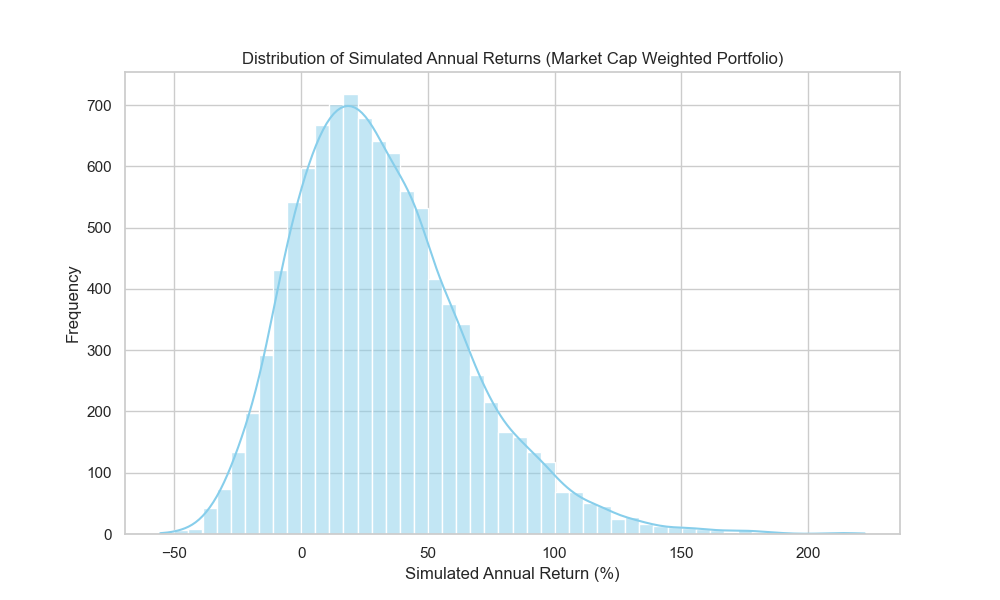
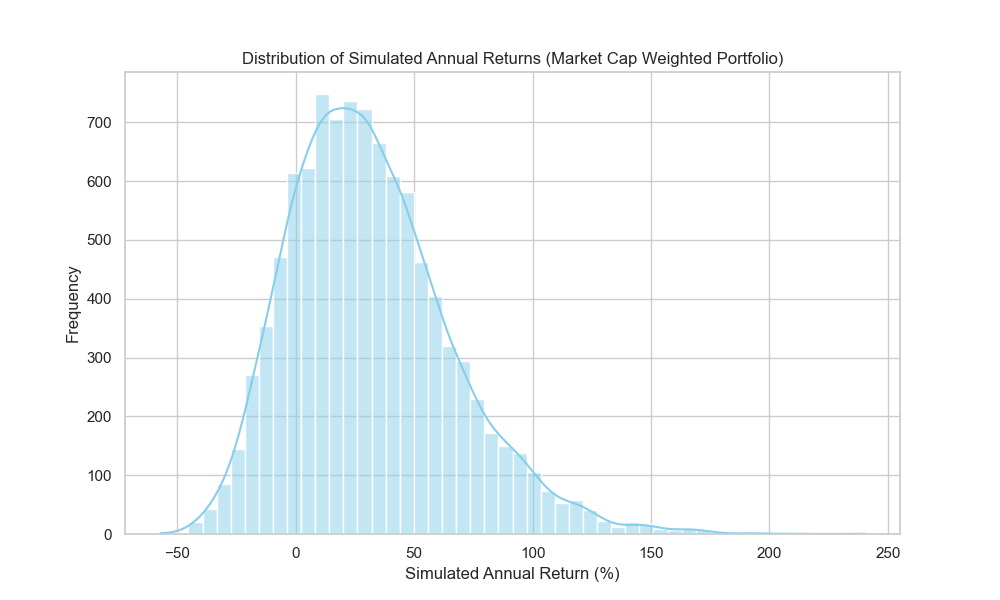
Original and Machine learning implementation #1

diff --git a/main_ML.py b/main_ML.py
@@ -7,9 +7,14 @@ from datetime import datetime
 import seaborn as sns
 import warnings
 
+# **New Imports for Machine Learning**
+from sklearn.ensemble import RandomForestRegressor
+from sklearn.model_selection import train_test_split
+
 # Suppress warnings
 warnings.filterwarnings("ignore", category=RuntimeWarning)
-warnings.filterwarnings("ignore", category=FutureWarning, message="The 'unit' keyword in TimedeltaIndex construction is deprecated")
+warnings.filterwarnings("ignore", category=FutureWarning,
+                        message="The 'unit' keyword in TimedeltaIndex construction is deprecated")
 warnings.filterwarnings("ignore", category=DeprecationWarning, message="Pyarrow will become a required dependency")
 
 # Set the style for seaborn
@@ -67,24 +72,93 @@ if returns.isnull().values.any():
     print("Data contains NaNs. Dropping NaNs.")
     returns = returns.dropna()
 
-# Step 2: Calculate mean returns and covariance matrix
-mean_returns = returns.mean()
+# Step 2: Calculate covariance matrix
 cov_matrix = returns.cov()
 num_assets = len(tickers)
 risk_free_rate = 0.05  # 5% annual risk-free rate
 
-# Function to calculate portfolio performance
-def portfolio_performance(weights, mean_returns, cov_matrix):
-    returns = np.dot(weights, mean_returns) * 252
-    volatility = np.sqrt(np.dot(weights.T, np.dot(cov_matrix * 252, weights)))
-    return returns, volatility
+# **Machine Learning for Return Forecasting**
 
-# Constraints and bounds
+# Function to create lagged features
+def create_features(asset_returns, lags=5):
+    features = pd.DataFrame(index=asset_returns.index)
+    for i in range(1, lags + 1):
+        features[f'lag_{i}'] = asset_returns.shift(i)
+    return features
+
+# Prepare predicted returns
+predicted_returns = pd.Series(index=tickers, dtype=float)
+
+for ticker in tickers:
+    # Prepare features and labels
+    asset_returns = returns[ticker]
+    features = create_features(asset_returns)
+    labels = asset_returns.shift(-1)  # Predict next day's return
+
+    # Combine features and labels and drop NaNs
+    df_ml = pd.concat([features, labels], axis=1)
+    df_ml.dropna(inplace=True)
+
+    # Check if there is enough data after dropping NaNs
+    if df_ml.empty or len(df_ml) < 10:
+        print(f"Not enough data to train the model for {ticker}. Skipping.")
+        predicted_returns[ticker] = np.nan
+        continue
+
+    # Separate features and labels
+    labels = df_ml.iloc[:, -1]
+    features = df_ml.iloc[:, :-1]
+
+    # Keep track of the feature columns used during training
+    feature_columns = features.columns
+
+    # Split the data
+    X_train, X_test, y_train, y_test = train_test_split(
+        features, labels, test_size=0.2, shuffle=False
+    )
+
+    # Train the model
+    model = RandomForestRegressor(n_estimators=100, random_state=42)
+    model.fit(X_train, y_train)
+
+    # Prepare the last features for prediction using the same feature columns
+    last_features = create_features(asset_returns).iloc[[-1]]
+    last_features = last_features[feature_columns]
+
+    # Check if last_features contain NaNs
+    if last_features.isnull().any().any():
+        print(f"Cannot predict return for {ticker} due to insufficient data in last features.")
+        predicted_returns[ticker] = np.nan
+        continue
+
+    # Predict the next period return
+    predicted_return = model.predict(last_features)[0]
+    predicted_returns[ticker] = predicted_return
+
+print("\nPredicted Returns:")
+print(predicted_returns.dropna())
+
+# Filter tickers with valid predicted returns
+valid_tickers = predicted_returns.dropna().index.tolist()
+if not valid_tickers:
+    raise ValueError("No valid predicted returns available for optimization.")
+
+# Update variables with valid tickers
+predicted_mean_returns = predicted_returns.dropna() * 252  # Annualize predicted returns
+cov_matrix = returns[valid_tickers].cov()
+num_assets = len(valid_tickers)
+tickers = valid_tickers
+
+# Update constraints, bounds, and initial guess
 constraints = {'type': 'eq', 'fun': lambda x: np.sum(x) - 1}
 bounds = tuple((0.01, 1) for _ in range(num_assets))  # Minimum weight of 1%
-
-# Initial guess
 init_guess = num_assets * [1. / num_assets]
+
+# Function to calculate portfolio performance
+def portfolio_performance(weights, mean_returns, cov_matrix):
+    returns = np.dot(weights, mean_returns)
+    volatility = np.sqrt(np.dot(weights.T, np.dot(cov_matrix * 252, weights)))
+    return returns, volatility
 
 # Optimization options with adjusted 'eps'
 options = {'eps': 1e-10}
@@ -92,7 +166,7 @@ options = {'eps': 1e-10}
 # **A. Minimum Variance Portfolio**
 
 def min_variance(weights):
-    return portfolio_performance(weights, mean_returns, cov_matrix)[1]  # Return volatility
+    return portfolio_performance(weights, predicted_mean_returns, cov_matrix)[1]  # Return volatility
 
 opt_min_variance = minimize(
     min_variance,
@@ -104,13 +178,18 @@ opt_min_variance = minimize(
 )
 
 min_var_weights = opt_min_variance.x
-min_var_return, min_var_volatility = portfolio_performance(min_var_weights, mean_returns, cov_matrix)
-min_var_sharpe = (min_var_return - risk_free_rate) / min_var_volatility
+min_var_return, min_var_volatility = portfolio_performance(
+    min_var_weights, predicted_mean_returns, cov_matrix
+)
+min_var_sharpe = (
+    (min_var_return - risk_free_rate) / min_var_volatility
+    if min_var_volatility != 0 else np.nan
+)
 
 # **B. Maximum Return Portfolio**
 
 def neg_return(weights):
-    return -portfolio_performance(weights, mean_returns, cov_matrix)[0]  # Negative return for minimization
+    return -portfolio_performance(weights, predicted_mean_returns, cov_matrix)[0]
 
 opt_max_return = minimize(
     neg_return,
@@ -122,14 +201,19 @@ opt_max_return = minimize(
 )
 
 max_return_weights = opt_max_return.x
-max_return_return, max_return_volatility = portfolio_performance(max_return_weights, mean_returns, cov_matrix)
-max_return_sharpe = (max_return_return - risk_free_rate) / max_return_volatility
+max_return_return, max_return_volatility = portfolio_performance(
+    max_return_weights, predicted_mean_returns, cov_matrix
+)
+max_return_sharpe = (
+    (max_return_return - risk_free_rate) / max_return_volatility
+    if max_return_volatility != 0 else np.nan
+)
 
 # **C. Maximum Sharpe Ratio Portfolio**
 
 def neg_sharpe_ratio(weights):
-    p_ret, p_vol = portfolio_performance(weights, mean_returns, cov_matrix)
-    return -(p_ret - risk_free_rate) / p_vol  # Negative Sharpe ratio for minimization
+    p_ret, p_vol = portfolio_performance(weights, predicted_mean_returns, cov_matrix)
+    return -(p_ret - risk_free_rate) / p_vol if p_vol != 0 else 0
 
 opt_max_sharpe = minimize(
     neg_sharpe_ratio,
@@ -141,8 +225,13 @@ opt_max_sharpe = minimize(
 )
 
 max_sharpe_weights = opt_max_sharpe.x
-max_sharpe_return, max_sharpe_volatility = portfolio_performance(max_sharpe_weights, mean_returns, cov_matrix)
-max_sharpe_ratio = (max_sharpe_return - risk_free_rate) / max_sharpe_volatility
+max_sharpe_return, max_sharpe_volatility = portfolio_performance(
+    max_sharpe_weights, predicted_mean_returns, cov_matrix
+)
+max_sharpe_ratio = (
+    (max_sharpe_return - risk_free_rate) / max_sharpe_volatility
+    if max_sharpe_volatility != 0 else np.nan
+)
 
 # **D. Market Cap Weighted Portfolio**
 
@@ -163,19 +252,24 @@ market_cap_weights = np.array([market_caps[ticker] for ticker in tickers]) / tot
 market_cap_weights /= np.sum(market_cap_weights)
 
 # Calculate performance
-mc_return, mc_volatility = portfolio_performance(market_cap_weights, mean_returns, cov_matrix)
-mc_sharpe = (mc_return - risk_free_rate) / mc_volatility
+mc_return, mc_volatility = portfolio_performance(
+    market_cap_weights, predicted_mean_returns, cov_matrix
+)
+mc_sharpe = (
+    (mc_return - risk_free_rate) / mc_volatility
+    if mc_volatility != 0 else np.nan
+)
 
 # **Display Portfolio Weights and Performance**
 
 def display_portfolio(weights, portfolio_name):
     print(f"\n{portfolio_name} Portfolio Weights:")
     for ticker, weight in zip(tickers, weights):
-        print(f"{ticker}: {weight*100:.2f}%")
-    p_return, p_volatility = portfolio_performance(weights, mean_returns, cov_matrix)
-    p_sharpe = (p_return - risk_free_rate) / p_volatility
-    print(f"Expected Annual Return: {p_return*100:.2f}%")
-    print(f"Annual Volatility (Risk): {p_volatility*100:.2f}%")
+        print(f"{ticker}: {weight * 100:.2f}%")
+    p_return, p_volatility = portfolio_performance(weights, predicted_mean_returns, cov_matrix)
+    p_sharpe = (p_return - risk_free_rate) / p_volatility if p_volatility != 0 else np.nan
+    print(f"Expected Annual Return (Predicted): {p_return * 100:.2f}%")
+    print(f"Annual Volatility (Risk): {p_volatility * 100:.2f}%")
     print(f"Sharpe Ratio: {p_sharpe:.2f}")
 
 display_portfolio(min_var_weights, "Minimum Variance")
@@ -193,46 +287,64 @@ def random_portfolios(num_portfolios, mean_returns, cov_matrix, risk_free_rate):
         weights /= np.sum(weights)
         weights_record.append(weights)
         p_return, p_volatility = portfolio_performance(weights, mean_returns, cov_matrix)
-        p_sharpe = (p_return - risk_free_rate) / p_volatility
+        p_sharpe = (p_return - risk_free_rate) / p_volatility if p_volatility != 0 else np.nan
         results[0, i] = p_volatility * 100  # Convert to percentage
         results[1, i] = p_return * 100      # Convert to percentage
         results[2, i] = p_sharpe
     return results, weights_record
 
-results, _ = random_portfolios(50000, mean_returns, cov_matrix, risk_free_rate)
+results, _ = random_portfolios(50000, predicted_mean_returns, cov_matrix, risk_free_rate)
+
+# Filter out any portfolios with NaN values
+valid_results = results[:, ~np.isnan(results).any(axis=0)]
 
 # Plotting the Efficient Frontier and Portfolios
 plt.figure(figsize=(12, 8))
-plt.scatter(results[0], results[1], c=results[2], cmap='viridis', s=2, alpha=0.5)
+plt.scatter(valid_results[0], valid_results[1], c=valid_results[2], cmap='viridis', s=2, alpha=0.5)
 plt.colorbar(label='Sharpe Ratio')
 plt.xlabel('Volatility (%)')
 plt.ylabel('Expected Return (%)')
-plt.title('Efficient Frontier')
+plt.title('Efficient Frontier with Predicted Returns')
 
 # Plotting the portfolios as circles with adjusted sizes
-plt.scatter(min_var_volatility * 100, min_var_return * 100, color='red', marker='o', s=100, label='Minimum Variance')
-plt.scatter(max_return_volatility * 100, max_return_return * 100, color='blue', marker='o', s=100, label='Maximum Return')
-plt.scatter(max_sharpe_volatility * 100, max_sharpe_return * 100, color='green', marker='o', s=100, label='Maximum Sharpe Ratio')
-plt.scatter(mc_volatility * 100, mc_return * 100, color='purple', marker='o', s=100, label='Market Cap Weighted')
+plt.scatter(
+    min_var_volatility * 100, min_var_return * 100,
+    color='red', marker='o', s=100, label='Minimum Variance'
+)
+plt.scatter(
+    max_return_volatility * 100, max_return_return * 100,
+    color='blue', marker='o', s=100, label='Maximum Return'
+)
+plt.scatter(
+    max_sharpe_volatility * 100, max_sharpe_return * 100,
+    color='green', marker='o', s=100, label='Maximum Sharpe Ratio'
+)
+plt.scatter(
+    mc_volatility * 100, mc_return * 100,
+    color='purple', marker='o', s=100, label='Market Cap Weighted'
+)
 
 plt.legend(labelspacing=0.8)
-plt.savefig('efficient_frontier.png')
+plt.savefig('efficient_frontier_predicted.png')
 plt.close()
 
 # **Monte Carlo Simulation and VaR/CVaR Calculations**
 
 def monte_carlo_simulation(mean_returns, cov_matrix, weights, num_simulations=10000, num_days=252):
+    daily_mean_returns = mean_returns / 252
+    daily_cov_matrix = cov_matrix / 252
     port_returns = []
     for _ in range(num_simulations):
         # Simulate daily returns over the year
-        daily_returns = np.random.multivariate_normal(mean_returns, cov_matrix, num_days)
+        daily_returns = np.random.multivariate_normal(
+            daily_mean_returns, daily_cov_matrix, num_days
+        )
         # Calculate portfolio daily returns
         port_daily_returns = np.sum(daily_returns * weights, axis=1)
         # Compound daily returns to get annual return
         port_cumulative_return = np.prod(1 + port_daily_returns) - 1
         port_returns.append(port_cumulative_return)
-    port_returns = np.array(port_returns)
-    return port_returns
+    return np.array(port_returns)
 
 def calculate_var_cvar(portfolio_returns, confidence_level=0.95):
     sorted_returns = np.sort(portfolio_returns)
@@ -252,13 +364,18 @@ portfolios = {
 
 for name, weights in portfolios.items():
     # Monte Carlo Simulation
-    portfolio_returns = monte_carlo_simulation(mean_returns, cov_matrix, weights)
-    # The portfolio_returns are already annualized through compounding
+    portfolio_returns = monte_carlo_simulation(predicted_mean_returns, cov_matrix, weights)
+    # Output summary statistics
+    print(f"\n{name} Portfolio Simulated Returns:")
+    print(f"Mean Return: {np.mean(portfolio_returns) * 100:.2f}%")
+    print(f"Median Return: {np.median(portfolio_returns) * 100:.2f}%")
+    print(f"Minimum Return: {np.min(portfolio_returns) * 100:.2f}%")
+    print(f"Maximum Return: {np.max(portfolio_returns) * 100:.2f}%")
     # Calculate VaR and CVaR
     var, cvar = calculate_var_cvar(portfolio_returns, confidence_level=0.95)
     print(f"\n{name} Portfolio:")
-    print(f"Value at Risk (95% confidence): {var*100:.2f}%")
-    print(f"Conditional Value at Risk (95% confidence): {cvar*100:.2f}%")
+    print(f"Value at Risk (95% confidence): {var * 100:.2f}%")
+    print(f"Conditional Value at Risk (95% confidence): {cvar * 100:.2f}%")
     # Plot the distribution
     plt.figure(figsize=(10, 6))
     sns.histplot(portfolio_returns * 100, bins=50, kde=True, color='skyblue')
@@ -266,6 +383,6 @@ for name, weights in portfolios.items():
     plt.xlabel('Simulated Annual Return (%)')
     plt.ylabel('Frequency')
     # Save the plot
-    filename = f'{name.lower().replace(" ", "_")}_returns_distribution.png'
+    filename = f'{name.lower().replace(" ", "_")}_returns_distribution_predicted.png'
     plt.savefig(filename)
     plt.close()
